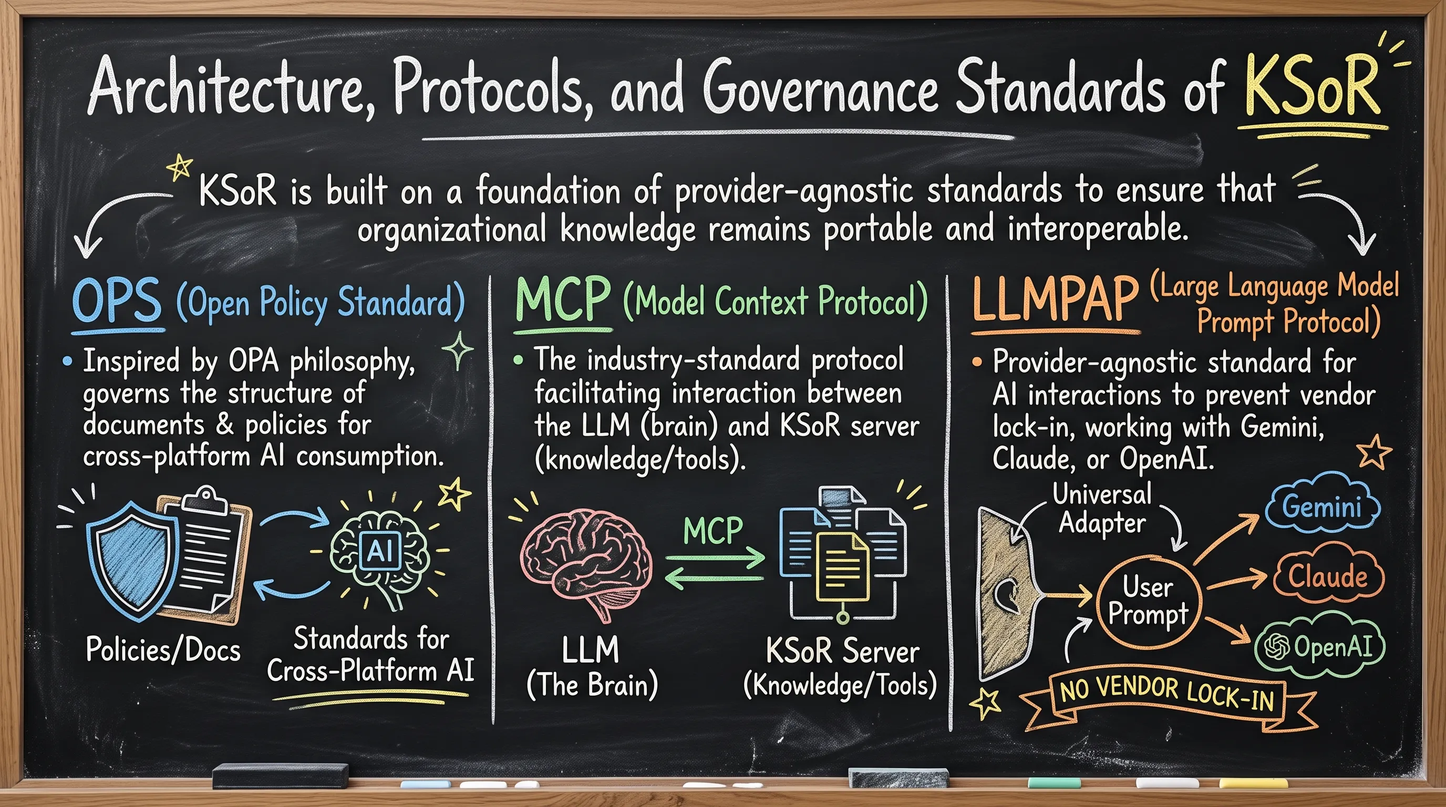
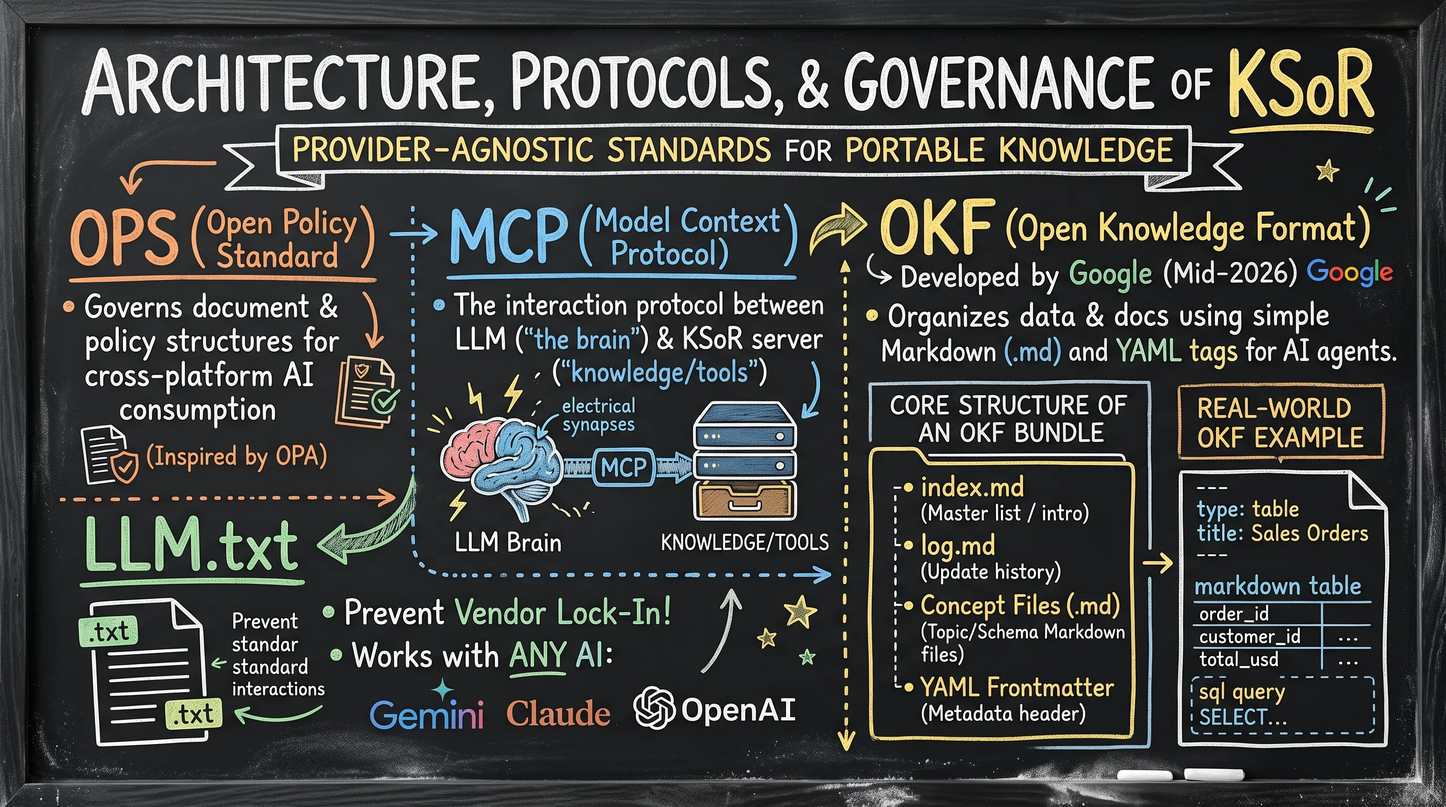
docs: update KSoR framework notes and configuration

diff --git a/Class_Working/Final_Marathon/Week04/Class07_13092026/Readme.md b/Class_Working/Final_Marathon/Week04/Class07_13092026/Readme.md
@@ -97,13 +97,13 @@ The shift from Traditional SoR to KSoR represents a transition from Interpretive
 
     # Example Query
 
-    ```sql
-    SELECT customer_id, SUM(total_usd) AS lifetime_value 
-    FROM sales.orders 
-    GROUP BY customer_id 
-    ORDER BY lifetime_value DESC 
-    LIMIT 100;
-    
+    sql query:
+        SELECT customer_id, SUM(total_usd) AS lifetime_value 
+        FROM sales.orders 
+        GROUP BY customer_id 
+        ORDER BY lifetime_value DESC 
+        LIMIT 100;
+
     ```
 
 ---
